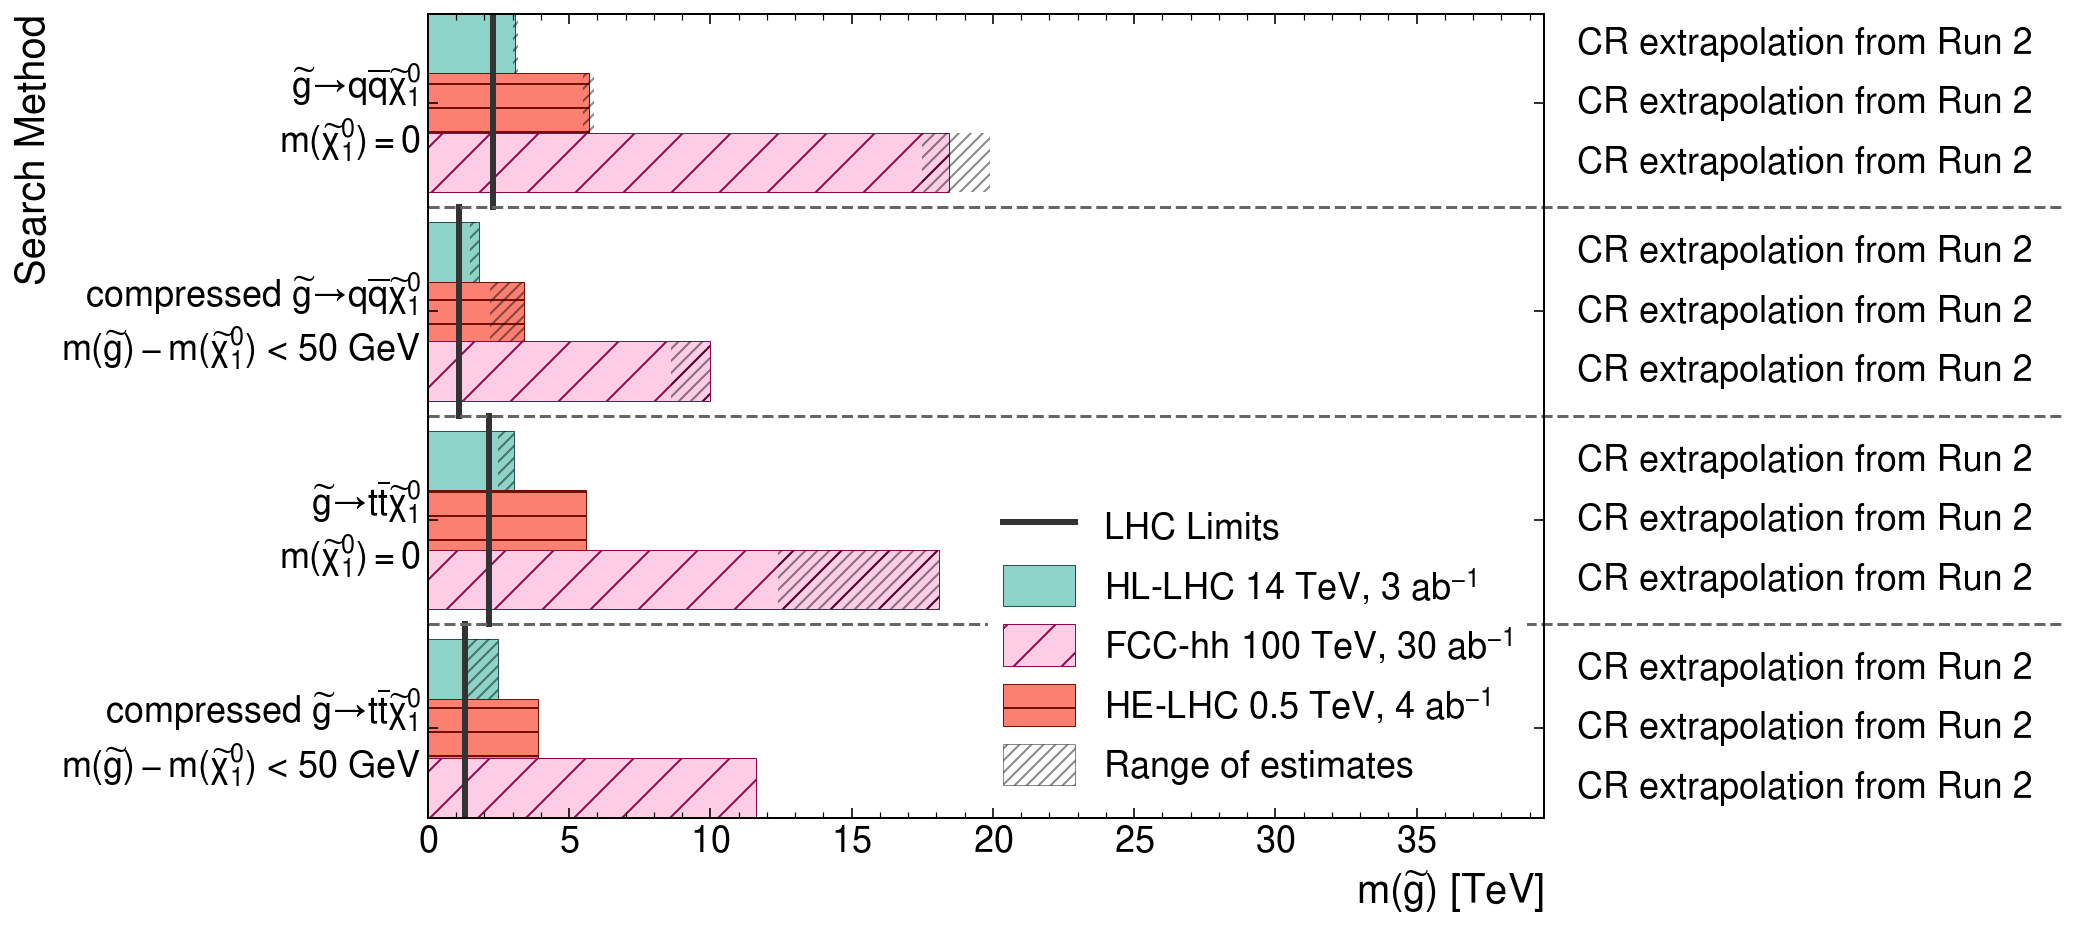
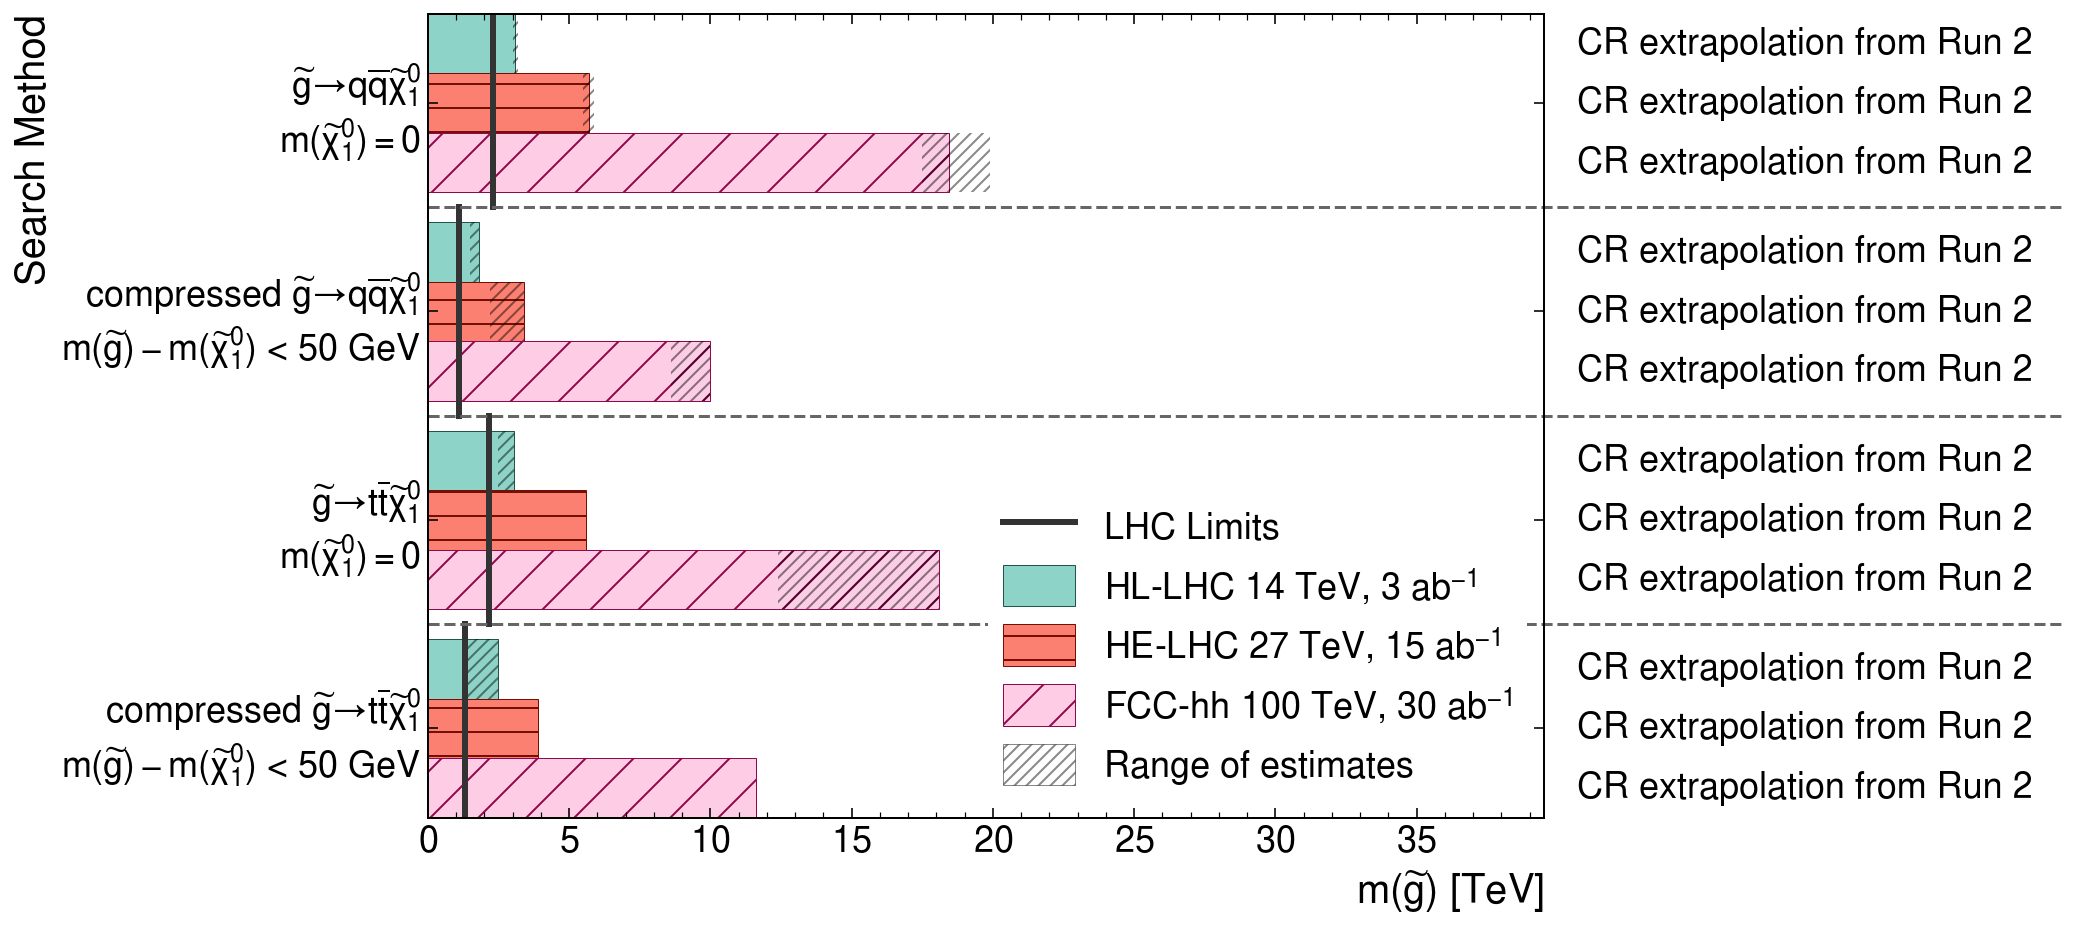
little fixes

Changed region(s): [[0.4618, 0.6562, 0.7388, 0.7812]]

diff --git a/example/squark.py b/example/squark.py
@@ -14,7 +14,7 @@ extend = 15
 legend_loc = "upper right"
 
 vals = {
-        r'$\widetilde{q}_R + \widetilde{q}_L$ $(\widetilde{u}, \widetilde{d}, \widetilde{s}, \widetilde{c})$': {
+        r'$\widetilde{q}_R + \widetilde{q}_L$' "\n" r'$(\widetilde{u}, \widetilde{d}, \widetilde{s}, \widetilde{c})$': {
             'HL-LHC': [(2.5, 2.55, 2.6), 'CR extrapolation from Run 2'],
             'HE-LHC': [(4.6, 4.7, 4.8), 'CR extrapolation from Run 2'],
             'FCC-hh': [(10,(14.4+15.1)/2,15.1), 'CR extrapolation from Run 2'],
@@ -41,12 +41,12 @@ vals = {
 cmap = mcm.get_cmap('Set3')
 styles = {
         'HL-LHC': {'annotation':'14 TeV, 3 ab$^{-1}$', 'color':cmap(0), 'hatch':None},
+        'HE-LHC': {'annotation':'27 TeV, 25 ab$^{-1}$', 'color':cmap(3), 'hatch':'-'},
         'FCC-hh': {'annotation':'100 TeV, 30 ab$^{-1}$', 'color':cmap(7), 'hatch':'/'},
-        'HE-LHC': {'annotation':'0.5 TeV, 4 ab$^{-1}$', 'color':cmap(3), 'hatch':'-'},
         'CLIC': {'annotation':'3 TeV, 5 ab$^{-1}$', 'color':cmap(4), 'hatch':'|'},
-        'Muon 30': {'annotation':'TeV, 10 ab$^{-1}$', 'color':cmap(2), 'hatch':'+'},
+        'Muon 3': {'annotation':'TeV, 1 ab$^{-1}$', 'color':cmap(1), 'hatch':'.'},
         'Muon 10': {'annotation':'TeV, 10 ab$^{-1}$', 'color':cmap(5), 'hatch':'x'},
-        'Muon 3': {'annotation':'TeV, 1 ab$^{-1}$', 'color':cmap(1), 'hatch':'.'}
+        'Muon 30': {'annotation':'TeV, 10 ab$^{-1}$', 'color':cmap(2), 'hatch':'+'}
 }
 
 ef08.plot(filename, xlabel, vals, styles, extend, legend_loc)

diff --git a/example/gluino.py b/example/gluino.py
@@ -48,8 +48,8 @@ vals = {
 cmap = mcm.get_cmap('Set3')
 styles = {
         'HL-LHC': {'annotation':'14 TeV, 3 ab$^{-1}$', 'color':cmap(0), 'hatch':None},
+        'HE-LHC': {'annotation':'27 TeV, 15 ab$^{-1}$', 'color':cmap(3), 'hatch':'-'},
         'FCC-hh': {'annotation':'100 TeV, 30 ab$^{-1}$', 'color':cmap(7), 'hatch':'/'},
-        'HE-LHC': {'annotation':'0.5 TeV, 4 ab$^{-1}$', 'color':cmap(3), 'hatch':'-'},
         'CLIC': {'annotation':'3 TeV, 5 ab$^{-1}$', 'color':cmap(4), 'hatch':'|'},
         'FCC-ee': {'annotation':'0.35 TeV, 12.6 ab$^{-1}$', 'color':cmap(2), 'hatch':'+'},
         'CEPC': {'annotation':'0.24 TeV, 10 ab$^{-1}$', 'color':cmap(5), 'hatch':'x'},
